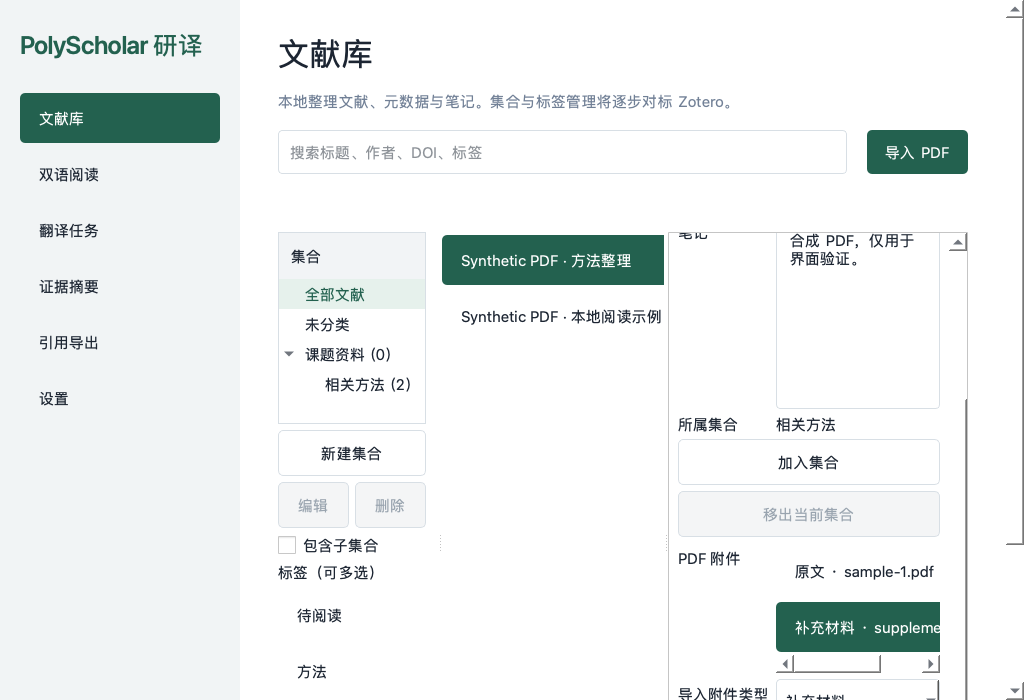
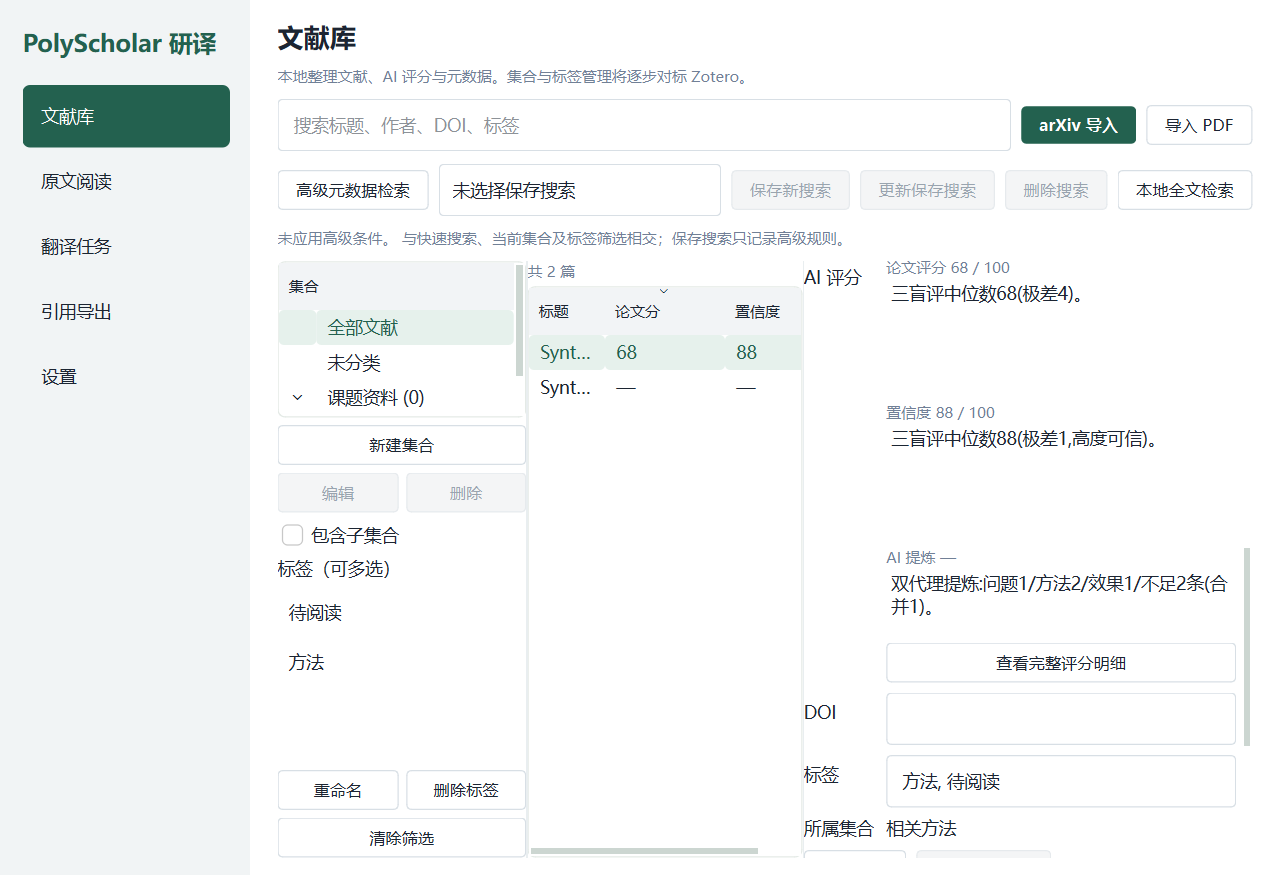
Document current features with real screenshots and MCP setup guide
README now leads with a feature table (library, translation, paper
score, confidence, extraction, fulltext search, exports, three
entries), a concrete MCP onboarding section (install extra, ZCode and
Claude Desktop config JSON, env vars, single-instance and audit
notes), and real captured screenshots of the current UI including the
tabbed score-detail dialog. capture_desktop.py seeds synthetic scores
so the shots exercise the real rendering paths; stale evidence-page
shot removed. Bilingual comments kept on the capture helpers.

diff --git a/scripts/capture_desktop.py b/scripts/capture_desktop.py
@@ -1,15 +1,64 @@
 # SPDX-License-Identifier: AGPL-3.0-only
 """Capture native screens using synthetic documents in an isolated temporary library."""
 import argparse
+import json
 from pathlib import Path
 import sys
 import tempfile
 sys.path.insert(0,str(Path(__file__).resolve().parents[1]))
-from PySide6.QtCore import Qt
 from PySide6.QtWidgets import QApplication, QScrollArea
 from PySide6.QtGui import QPdfWriter,QPainter
 from polyscholar.app import Window,STYLE
 from polyscholar.service import LocalService
+from polyscholar.ui.scores import ScoreDetailDialog
+
+def nav_to(window,name):
+    """切换导航页;按名称查找,页面增减时不依赖行号。"""
+    for row in range(window.nav.count()):
+        if window.nav.item(row).text()==name:
+            window.nav.setCurrentRow(row);return
+    raise ValueError('导航页不存在:'+name)
+
+def paint_pdf(path,line):
+    writer=QPdfWriter(str(path));painter=QPainter(writer)
+    painter.drawText(100,100,line);painter.end();del painter,writer
+
+def paper_detail():
+    """合成但结构真实的评分明细(与 aggregate 产物同构,不含任何私人数据)。"""
+    dims=[dict(key='novelty',max=25,score=17,rationale='通过条目1-3;第4条缺近邻工作全文对照'),
+          dict(key='innovation_degree',max=20,score=12,rationale='组合式改进,核心算子非新设计'),
+          dict(key='effectiveness',max=40,score=27,rationale='公平基线但无意义阈值定义'),
+          dict(key='rigor',max=10,score=8,rationale='方法闭合,威胁有控制'),
+          dict(key='clarity',max=5,score=4,rationale='结论均可追踪')]
+    return dict(rubric_version='1.0.0',manifest=dict(paper_sha256='synthetic'),total=68,dimensions=dims,
+        strengths=[dict(point='多教师逐指标蒸馏',evidence='§3.1')],
+        weaknesses=[dict(point='中心主张无结论表',evidence='§5')],
+        sub_scores=[dict(agent_id='A',total=64),dict(agent_id='B',total=68),dict(agent_id='C',total=68)],
+        aggregation=dict(method='median',spread=4,initial_spread=4,rechecked=False,rounds=0,
+                         selected_agent_id='B',unresolved_disagreement=False))
+
+def confidence_detail():
+    dims=[dict(key='evidence',max=40,score=32,rationale='设置与口径可定位;无种子/方差报告'),
+          dict(key='consistency',max=25,score=22,rationale='表图与正文数值交叉一致'),
+          dict(key='traceability',max=15,score=14,rationale='引用与代码链接可定位'),
+          dict(key='plausibility',max=20,score=20,rationale='声幅在文内约束内')]
+    return dict(rubric_version='1.0.0',manifest=dict(paper_sha256='synthetic'),total=88,dimensions=dims,
+        red_flags=[],verdict='高度可信',
+        sub_scores=[dict(agent_id='A',total=87),dict(agent_id='B',total=88),dict(agent_id='C',total=88)],
+        aggregation=dict(method='median',spread=1,initial_spread=1,rechecked=False,rounds=0,
+                         selected_agent_id='B',unresolved_disagreement=False))
+
+def summary_detail():
+    def item(text,agents,evidence=None):
+        entry=dict(text=text,agents=agents)
+        if evidence:entry['evidence']=evidence
+        return entry
+    return dict(structure='summary-1',
+        problem=[item('无高精地图下的闭环运动规划真值不可靠',['A','B'],'§1')],
+        method=[item('多教师逐指标蒸馏',['A'],'§3.1'),item('时序BEV融合',['B'],'§3.2')],
+        results=[item('nuPlan Val14 L2 较基线下降',['A','B'],'表2')],
+        limitations=[item('无重复/方差报告',['A','B']),item('评测隔离程序未随材料提供',['A'],'§4')],
+        meta=dict(agents=['A','B'],duplicates_dropped=1))
 
 def main():
     parser=argparse.ArgumentParser(description=__doc__)
@@ -19,32 +68,34 @@ def main():
     with tempfile.TemporaryDirectory(prefix='polyscholar-ui-') as tmp:
         root=Path(tmp);service=LocalService(data_dir=root/'data')
         parent=service.create_collection('课题资料');child=service.create_collection('相关方法',parent['id'])
+        doc=None
         for i,title in enumerate(['Synthetic PDF · 本地阅读示例','Synthetic PDF · 方法整理']):
-            path=root/f'sample-{i}.pdf';writer=QPdfWriter(str(path));painter=QPainter(writer)
-            painter.drawText(100,100,f'Synthetic local UI test {i}');painter.end();del painter,writer
+            path=root/f'sample-{i}.pdf';paint_pdf(path,f'Synthetic local UI test {i}')
             doc=service.import_pdf(path)
-            service.update_document(doc['id'],{'title':title,'authors':'Demo Author','tags':['方法','待阅读'],'notes':'合成 PDF，仅用于界面验证。'})
+            service.update_document(doc['id'],{'title':title,'authors':'Demo Author','tags':['方法','待阅读']})
             service.set_membership(doc['id'],child['id'])
-            supplement=root/f'supplement-{i}.pdf';writer=QPdfWriter(str(supplement));painter=QPainter(writer)
-            painter.drawText(100,100,f'Synthetic supplement {i}');painter.end();del painter,writer
+            supplement=root/f'supplement-{i}.pdf';paint_pdf(supplement,f'Synthetic supplement {i}')
             service.import_attachment(doc['id'],supplement,'supplement')
+        # 三类评分全部写入,文献库与明细页展示真实渲染效果
+        for kind,score,rationale,build in (('paper',68.0,'三盲评中位数68(极差4)。',paper_detail),
+                                           ('confidence',88.0,'三盲评中位数88(极差1,高度可信)。',confidence_detail),
+                                           ('summary',None,'双代理提炼:问题1/方法2/效果1/不足2条(合并1)。',summary_detail)):
+            service.set_scores(doc['id'],[dict(kind=kind,score=score,rationale=rationale,
+                                               detail=json.dumps(build(),ensure_ascii=False))])
         window=Window(service)
         try:
             window.show();app.processEvents();window.document_tree.setCurrentItem(window.document_tree.topLevelItem(0))
             app.processEvents();window.grab().save(str(args.output/'library-python.png'))
+            dialog=ScoreDetailDialog(doc['title'],service.document_scores(doc['id']))
+            dialog.resize(760,640);dialog.show();app.processEvents()
+            dialog.grab().save(str(args.output/'score-detail-python.png'));dialog.close()
             window.attachment_list.setCurrentRow(1)
             attachment_scroll=window.attachment_list.parentWidget()
             while attachment_scroll and not isinstance(attachment_scroll,QScrollArea):attachment_scroll=attachment_scroll.parentWidget()
             if attachment_scroll:attachment_scroll.ensureWidgetVisible(window.attachment_delete_button)
             app.processEvents();window.grab().save(str(args.output/'attachments-python.png'))
-            window.nav.setCurrentRow(5);app.processEvents();window.grab().save(str(args.output/'settings-python.png'))
-            service.parse_document(doc['id'])
-            block=service.document_blocks(doc['id'])[0]
-            service.save_claim(doc['id'],'合成 PDF 的本地证据笔记。',[{'blockId':block['id'],'quote':block['text']}])
-            window.nav.setCurrentRow(3);window.evidence_doc.setCurrentIndex(window.evidence_doc.findData(doc['id']));window.load_evidence()
-            window.evidence_blocks.item(0).setCheckState(Qt.CheckState.Checked)
-            window.evidence_claims.setCurrentRow(0);app.processEvents();window.grab().save(str(args.output/'evidence-python.png'))
-            window.resize(1024,700);window.nav.setCurrentRow(0);app.processEvents();window.grab().save(str(args.output/'library-1024.png'))
+            nav_to(window,'设置');app.processEvents();window.grab().save(str(args.output/'settings-python.png'))
+            window.resize(1024,700);nav_to(window,'文献库');app.processEvents();window.grab().save(str(args.output/'library-1024.png'))
         finally:
             window.close();service.close()
     print('Native screenshots saved:',args.output)

diff --git a/README.md b/README.md
@@ -10,63 +10,96 @@
 [![Python](https://img.shields.io/badge/Python-3.12%2B-3776AB?logo=python&logoColor=white)](pyproject.toml)
 [![License](https://img.shields.io/badge/License-AGPL--3.0-blue)](LICENSE)
 
-[AI 评分工作流](#ai-评分工作流核心) · [三种用法](#三种用法同一套能力) · [快速开始](#快速开始) · [开发路线](#开发路线)
+[功能总览](#功能总览) · [AI 评分工作流](#ai-评分工作流) · [MCP 接入配置](#mcp-接入配置) · [开发路线](#开发路线)
 
 </div>
 
 > 开发中，尚未发布安装包。
 
-## 为什么是这个样子
+![文献库](design/screenshots/library-python.png)
 
-读论文最贵的不是下载，是**判断**：这篇论文的创新是否成立？结论可信到什么程度？PolyScholar 把"判断"做成可核验的工作流，而不是一句模型印象：
+## 功能总览
 
-- **评分不是打印象分**——两份量化量表（[论文质量](rubrics/paper-scoring.md) 20 个条目、[置信度](rubrics/confidence-scoring.md) 四维红旗），每个条目按连续条件计分，必须引用原文位置；
-- **不是单模型说了算**——三个互相不可见的子代理盲评，取中位数；极差超过 10/15 分强制复核，复核后仍有分歧如实标注；
-- **程序强制规则，agent 只做判断**——结构校验、中位数、材料包一致性、复核门槛全部由程序执行；agent 试图提交不合规范的评分会被直接拒绝；
-- **结论可溯源**——文献详情页能查到每个维度"得在哪里、卡在哪一条、依据原文哪一句"，三位评委的逐字原文永久留档。
+| 功能 | 说明 |
+|---|---|
+| **本地文献库** | 导入本地 PDF / 粘贴 arXiv 链接自动抓取元数据；集合与子集合、多附件、五类文献类型、有序作者、标签、高级检索与保存搜索（对标 Zotero 的个人工作流） |
+| **双语翻译** | arXiv 论文整篇翻译为双语 HTML，保留图表与公式，译文归属文献、可导出 |
+| **AI 评分（论文分）** | 按 [20 条目量化量表](rubrics/paper-scoring.md)（创新点/创新程度/实际效果/严谨性/清晰度）三代理盲评取中位数，极差超限强制复核；明细到"每个维度得在哪里、卡在哪一条、依据原文哪句" |
+| **AI 评分（置信度）** | 按 [四维量表](rubrics/confidence-scoring.md)（证据强度/内部一致性/来源可溯源/结果合理性）+ 红旗清单扣分，输出五档可信结论；**只评估文本内证据，不判断科学真伪** |
+| **AI 提炼** | 两个子代理按固定契约提取**解决的问题 / 使用的方法 / 实验效果 / 不足与缺陷**，程序合并去重，每条标注来源代理与出处 |
+| **全文检索** | 解析后支持库级/单篇中文全文定位（`search` 命令），复核评分免整篇重读 |
+| **元数据导出** | BibTeX / RIS / CSL-JSON，与界面预览同一格式器 |
+| **三种入口** | 桌面端（PySide6）、命令行（`polyscholar-cli`）、MCP server——同一服务层、同一校验、同一份数据 |
 
-## AI 评分工作流（核心）
+![评分明细](design/screenshots/score-detail-python.png)
+
+## AI 评分工作流
+
+打分的"智能"在你的 AI agent 侧，规则强制在程序侧：
 
 ```sh
 polyscholar-cli rubric show paper            # agent 先取打分文档(含版本与 SHA-256)
 polyscholar-cli parse <doc>                  # 解析全文
-polyscholar-cli text <doc> --pages 2-5       # 按页阅读,search 可全文定位
-# 你的 AI agent 开三个隔离子代理,各写一份评分报告 JSON
+polyscholar-cli text <doc> --pages 2-5       # 按页阅读;search "关键词" --doc <doc> 全文定位
+# agent 开三个隔离子代理,各写一份评分报告 JSON(不允许单会话连演三位评委)
 polyscholar-cli score aggregate --kind paper \
     --reports A.json B.json C.json --apply <doc> --rationale-file r.md
 ```
 
-极差超限时 aggregate 不合卷，返回**分歧条目清单 + 复核指令模板**，复核后加 `--recheck` 重跑。提炼同理，只需两个子代理：
+- 程序侧强制执行：逐份结构校验、冻结材料包一致性、中位数、A→B→C 代表报告规则；
+- 极差超限（论文 >10 / 置信度 >15）时**拒绝合卷**，返回分歧条目清单 + 复核指令模板，复核后 `--recheck` 重跑；
+- 提炼只需两个子代理（`--kind summary`），四节契约、程序合并去重、`--apply` 直写；
+- 全部命令支持 `--json`；成功回执只报结果不回显明细，为 agent 省 token。
+
+完整命令契约见 [cli.md](cli.md)。
+
+## MCP 接入配置
+
+PolyScholar 内置 stdio MCP server，把整条命令契约交给 AI 客户端。agent 只会拿到两个工具：`cli_docs`（读命令手册）和 `cli_run`（执行白名单内的命令）——它因此能完成上面所有工作流，但拿不到你的 API 密钥。
+
+**第一步：安装 MCP 依赖**
 
 ```sh
-polyscholar-cli score aggregate --kind summary \
-    --reports A.json B.json --apply <doc>    # 四节:问题/方法/实验效果/不足
+python -m pip install -e ".[mcp]"
 ```
 
-桌面上每篇文献显示**论文分 / 置信度 / AI 提炼**三块独立窗口；"查看完整评分明细"按选项卡展开全部维度得分、得失分点、红旗清单和评委原文，可导出 JSON。
+**第二步：在客户端配置里注册 server**
 
-## 三种用法（同一套能力）
+ZCode（`~/.zcode/cli/config.json`）：
 
-| 入口 | 给谁用 | 说明 |
-|---|---|---|
-| **桌面端** | 人 | PySide6 原生界面：文献库、双语阅读、评分与提炼展示 |
-| **命令行** | 脚本 | `polyscholar-cli`，全部命令支持 `--json`，契约见 [cli.md](cli.md) |
-| **MCP** | AI agent | 两个工具（`cli_docs`/`cli_run`）接入 ZCode/Claude/Cursor，见 [mcp.md](mcp.md) |
+```json
+{
+  "mcp": {
+    "servers": {
+      "polyscholar": {
+        "command": "polyscholar-mcp",
+        "env": {
+          "POLYSCHOLAR_DATA_DIR": "D:\\path\\to\\PolyScholar\\data",
+          "HTTPS_PROXY": "http://127.0.0.1:7890"
+        }
+      }
+    }
+  }
+}
+```
 
-三种入口调用同一个服务层——同样的校验、同样的审计、同一份数据。
+Claude Desktop（`claude_desktop_config.json`）与 Cursor 同型，外层键换成 `"mcpServers"` 即可。从源码运行时把 `command` 换成你的 Python、`args` 换成 `["-m", "polyscholar.mcp_server"]`，并在 `env` 里加 `"PYTHONPATH": "仓库路径"`。
 
-## 文献库与阅读
+**环境变量（全部可选）**
 
-- **本地文献库**：集合与子集合、多 PDF 附件、五类文献类型、有序作者、标签、高级检索、保存搜索，对标 Zotero 的个人工作流；
-- **双语翻译**：arXiv 论文一键生成双语 HTML，保留图表与公式，译文归属文献、可导出；
-- **全文检索**：解析后支持库级/单篇中文全文定位（`search` 命令），复核评分时免整篇重读；
-- **元数据导出**：BibTeX / RIS / CSL-JSON。
+| 变量 | 作用 |
+|---|---|
+| `POLYSCHOLAR_DATA_DIR` | 资料目录；源码运行默认仓库 `data/`，与 GUI 一致 |
+| `POLYSCHOLAR_CLI_MD` / `POLYSCHOLAR_RUBRICS_DIR` | 命令契约 / 打分文档的替代位置 |
+| `HTTPS_PROXY` / `HTTP_PROXY` | arXiv 拉取走代理（国内网络常用） |
 
-## 设计原则
+**第三步：重启客户端，对 agent 说"给这篇论文评分"即可。**
 
-- **本地优先**：SQLite 存本机，无账户无云同步；联网只发生在你触发的动作（[边界说明](docs/09-local-and-network-scope.md)）；
-- **程序化优先**：能由程序确定完成的（校验、合卷、合并、归档）绝不让模型重做——省 token，也省出错面；
-- **诚实呈现**：没有的能力不假装——空态说明如何产生数据，核验不了如实标注"无法核验"。
+注意事项：
+
+- **单实例锁**：GUI 与 MCP 不能同时打开同一资料目录——让 agent 操作前先关闭桌面窗口（锁冲突时命令返回退出码 2，`status` 命令可查锁状态）；
+- agent 的每次写入都经过与 GUI 相同的校验并记入本机审计日志；`remove --yes` 会真实删除，客户端的工具确认机制请保持开启；
+- 无遥测：所有数据留在本机。
 
 ## 快速开始
 
@@ -76,12 +109,35 @@ polyscholar-cli score aggregate --kind summary \
 git clone https://github.com/Kelvin-LH/PolyScholar.git
 cd PolyScholar
 python -m pip install -e .
-python -m polyscholar
+python -m polyscholar        # 启动桌面端
 ```
 
 1. 导入本地 PDF 或粘贴 arXiv 链接；
-2. （可选翻译）设置模型 API，创建翻译任务；
-3. （可选评分）接入 MCP 后让 agent 按 rubrics 完成评分与提炼——见 [mcp.md](mcp.md)。
+2. 设置页填写模型 API（翻译用），创建翻译任务；
+3. 按 [MCP 接入配置](#mcp-接入配置) 接好 agent，让它完成评分与提炼。
+
+<details>
+<summary>更多原生界面截图</summary>
+
+![原生附件管理](design/screenshots/attachments-python.png)
+
+![原生设置](design/screenshots/settings-python.png)
+
+![本地全文检索](design/screenshots/fulltext-python.png)
+
+![高级检索与保存搜索](design/screenshots/searches-python.png)
+
+![作者与编者](design/screenshots/creators-python.png)
+
+![窄窗布局](design/screenshots/library-1024.png)
+
+</details>
+
+## 设计原则
+
+- **本地优先**：SQLite 存本机，无账户无云同步；
+- **程序化优先**：能由程序确定完成的（校验、合卷、合并、归档）绝不让模型重做——省 token，也省出错面；
+- **诚实呈现**：没有的能力不假装——空态说明如何产生数据，核验不了如实标注"无法核验"。
 
 ## 开发路线
 
